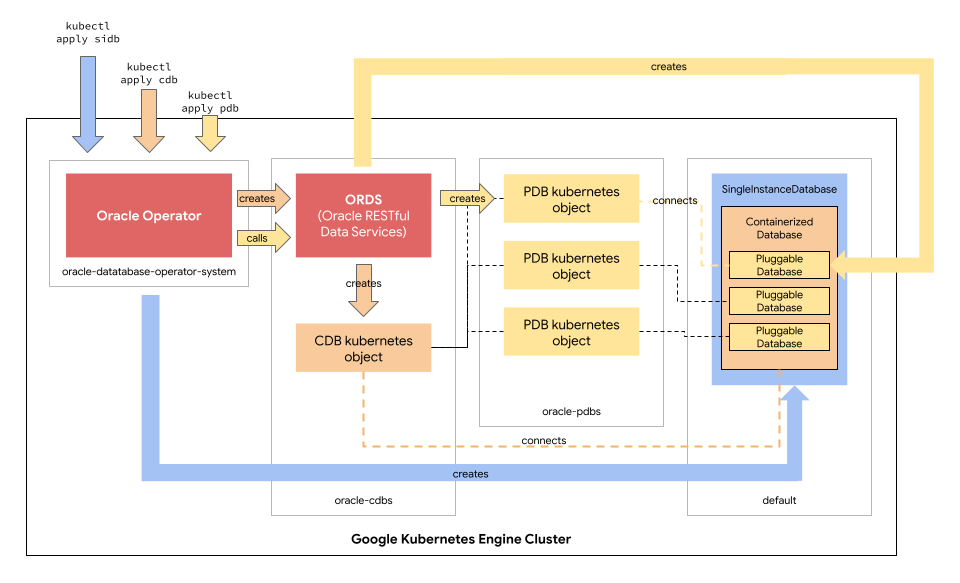
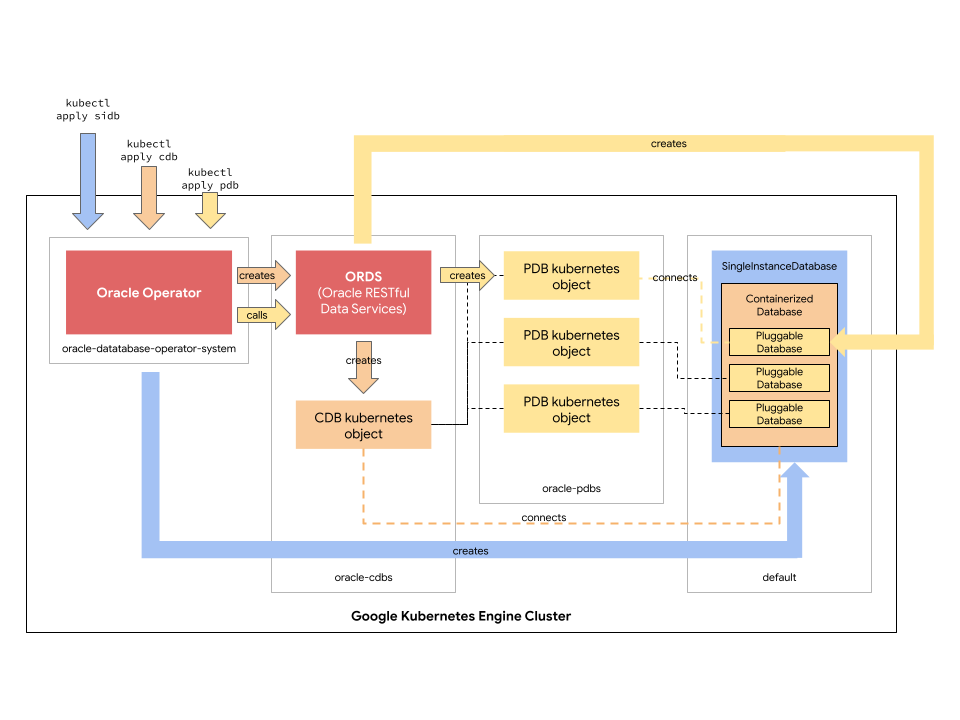
FIX: white img backgrounds

diff --git a/Readme.md b/Readme.md
@@ -29,7 +29,7 @@ Once you've done that, you will proceed to creata a CDB kubernetes object to con
 
 With ORDS in place and connected to the CDB inside the SingleInstanceDatabase, the last step will be to create a PDB kubernetes object through the Oracle Operator that will create a Pluggable Database (PDB) inside the Containerize Database (CDB) that the SingleInstanceDatabase has. This PDB object creation points to the CDB object created before, and will be using ORDS to connect to the database where the operations must be performed. The Kubernetes Oracle Operator talks RESTful services to the ORDS service, which at the same time uses a JDBC driver to talk to the actual database.
 
-The diagram below depicts the logical relationship between the objects and services that will be created in this tutorial:
+The diagram below depicts the logical relationship between the objects and services that will be created in this tutorial (color conventions, blue for the sidb, orange for the cdb, and yellow for the pdb are important to follow the relationships):
 
 <div style="text-align: center;">
   <img src="./img/OOPGKE_Logical_Diagram.png" alt="Logical Diagram">
